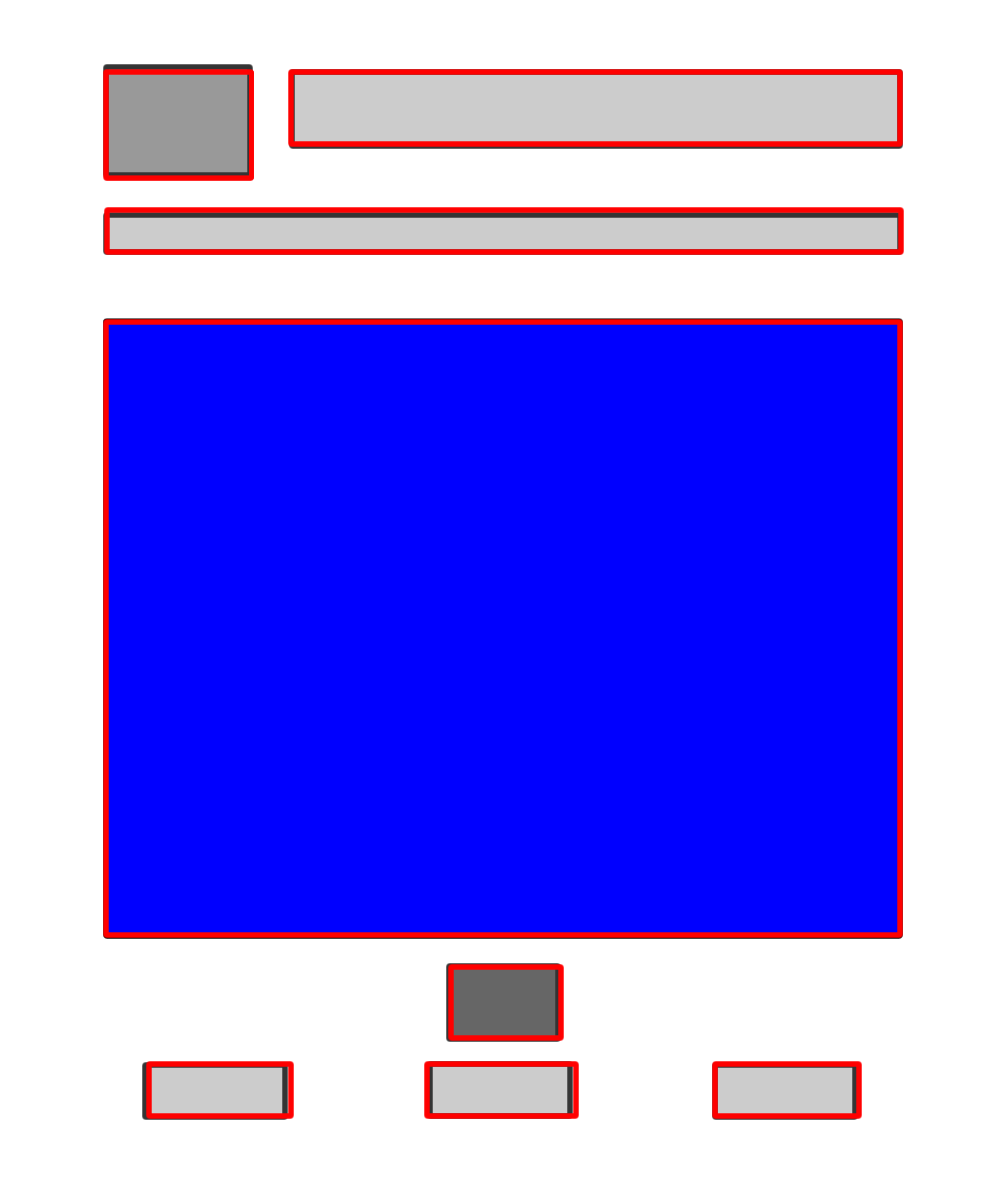
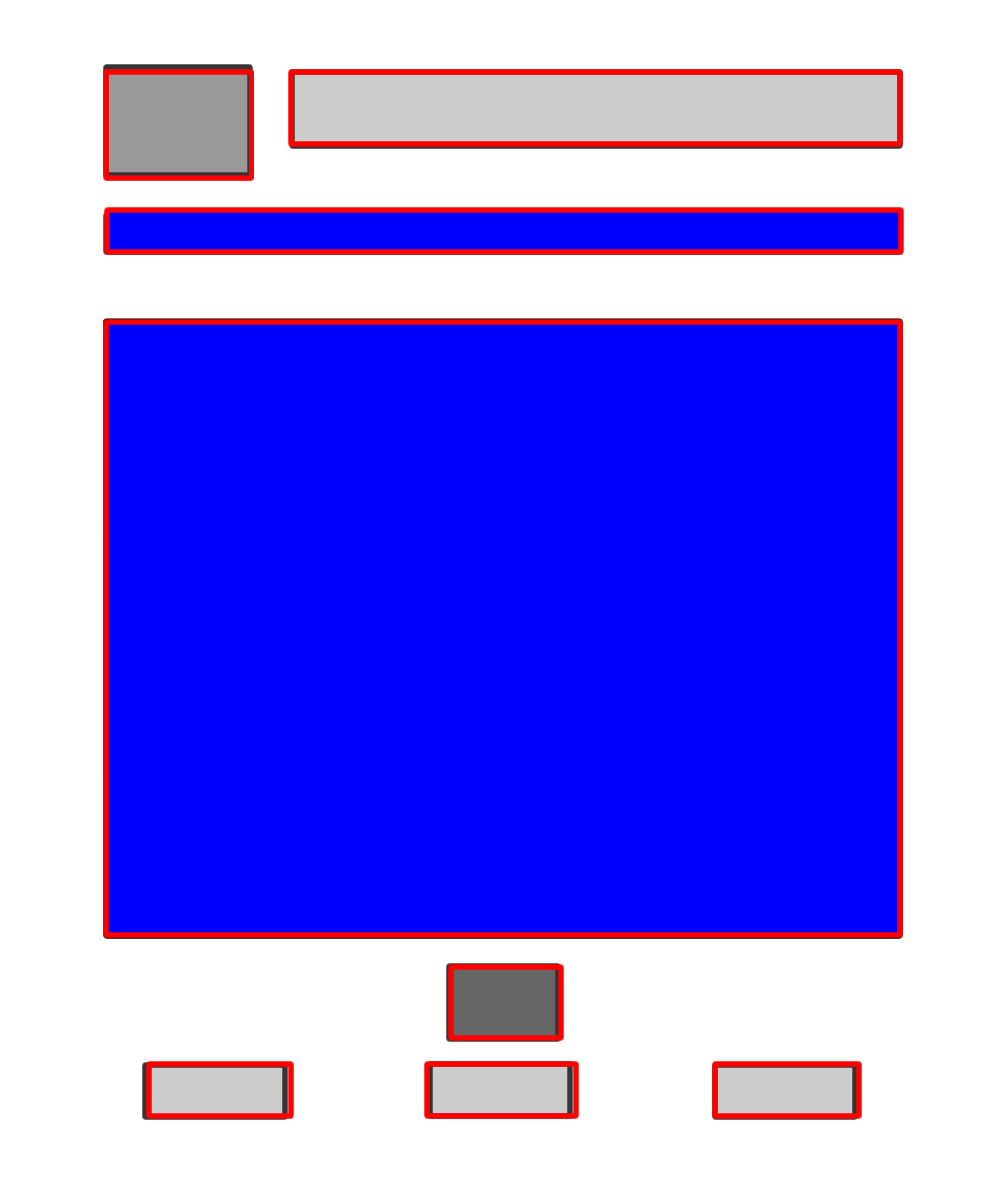
updated WP5

Changed region(s): [[0.093, 0.1542, 0.899, 0.2158]]

diff --git a/work process.html b/work process.html
@@ -100,12 +100,13 @@
         <li>The placement and the color of the icon and the title is consistant with the homepage</li>
       </ul>
     <h1>Making Tempelete for subpages</h1>
-    <img src="subpage-tempelete-wireframe" width=400px />
-    <p>This is a wireframe for the subpages</p>
+    <img src="subpage-tempelete-wireframe.png" width=400px />
+    <p>This is a wireframe for the subpages with editable region labeled</p>
     <h3>Creating Tempelete using Dreamweaver</h3>
-    <img src="tempelete shot" width=400px />
+    <img src="tempelete-shot-final.png" width=400px />
     <p>This is the tempelete created with dreamwearver</p>
-    <p>Only the big square in the middle is editable</p>
+    <p>Only the navigation bar and the big square in the middle is editable</p>
+    <p>We also decided to remove one bottom navigation botton as it is not essential for the page</p>
     <h3>self-review notes</h3>
       <ul>
         <li>links doesn't work - find the problem</li>
